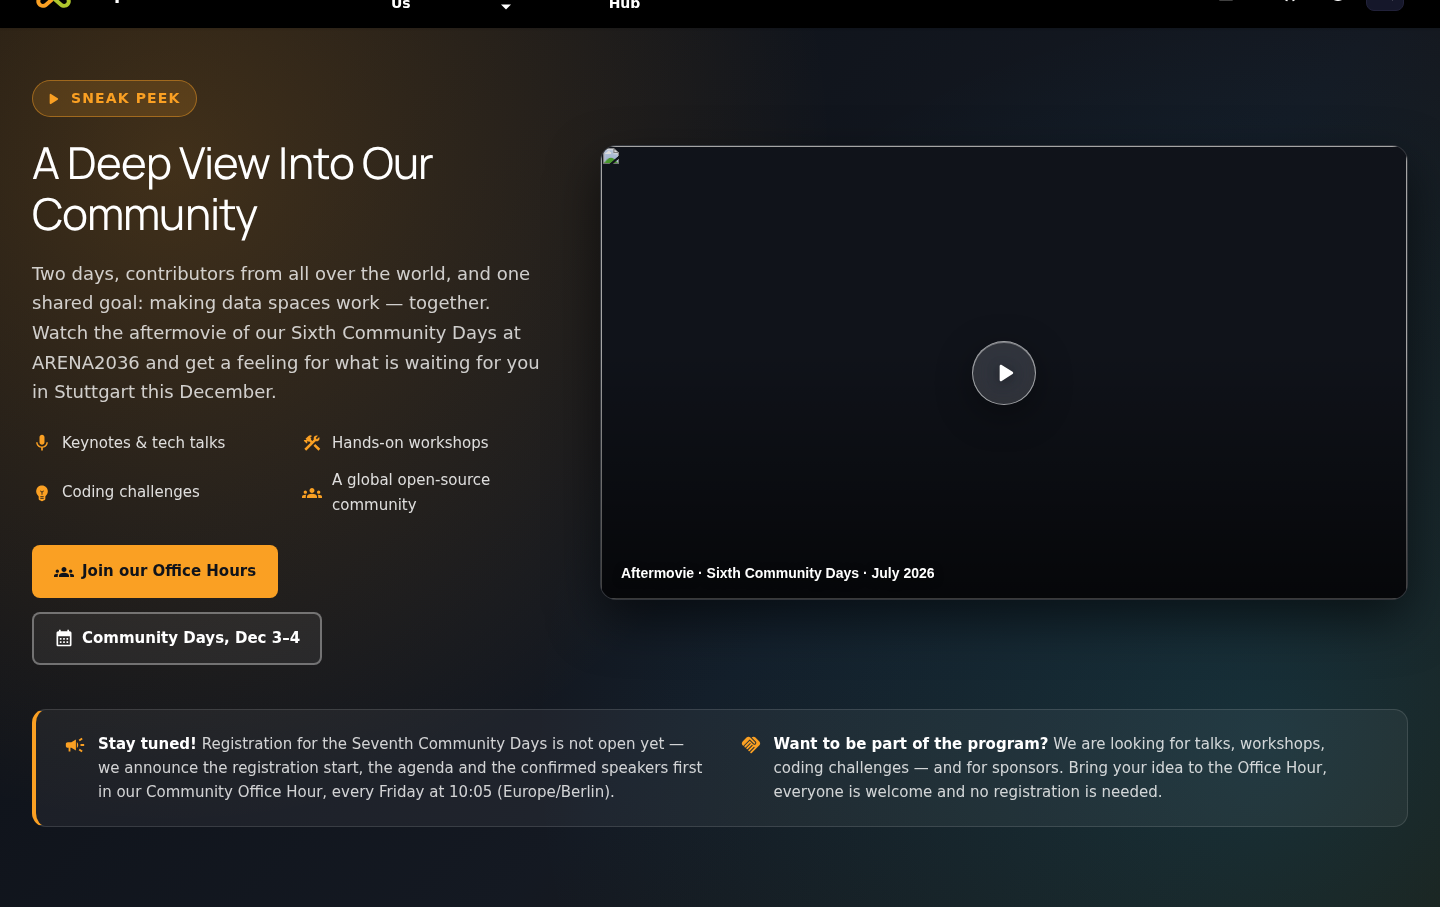
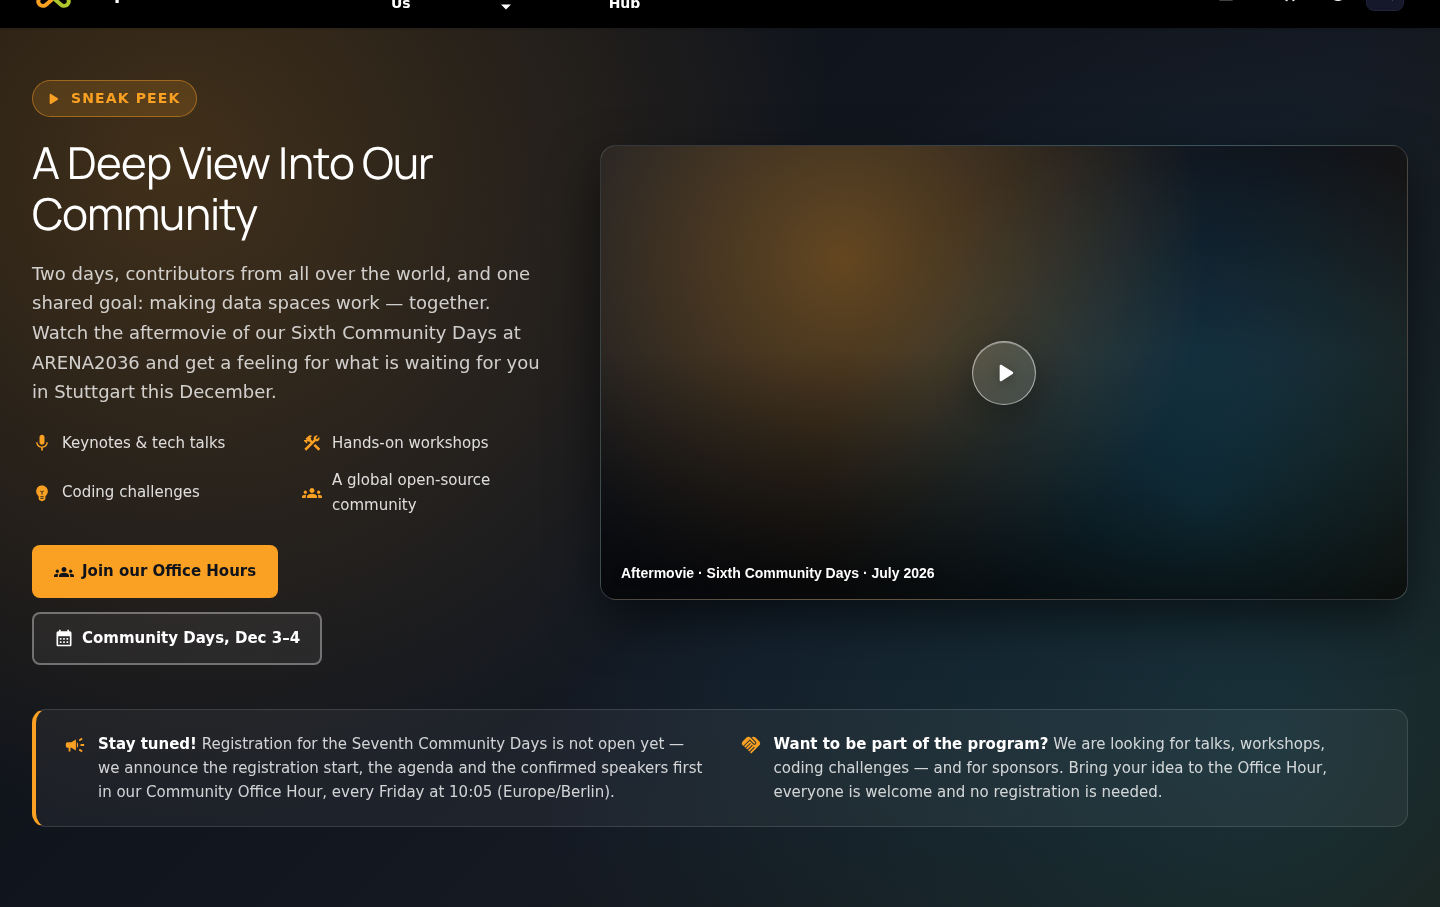
fix: graceful poster fallback for the sneak peek video facade

Changed region(s): [[0.4062, 0.1544, 0.9375, 0.6174]]

diff --git a/src/components/CommunitySneakPeek/index.js b/src/components/CommunitySneakPeek/index.js
@@ -53,6 +53,7 @@ const HIGHLIGHTS = [
 const CommunityVideo = () => {
   const [playing, setPlaying] = useState(false);
   const [posterIndex, setPosterIndex] = useState(0);
+  const [posterFailed, setPosterFailed] = useState(false);
 
   if (playing) {
     return (
@@ -70,17 +71,27 @@ const CommunityVideo = () => {
   return (
     <button
       type="button"
-      className={styles.videoFacade}
+      className={`${styles.videoFacade} ${posterFailed ? styles.videoFacadeFallback : ''}`}
       onClick={() => setPlaying(true)}
       aria-label={`Play the aftermovie: ${VIDEO_TITLE}`}
     >
-      <img
-        src={POSTERS[posterIndex]}
-        alt=""
-        loading="lazy"
-        // Fall back to the next-best still; stops at the last candidate.
-        onError={() => setPosterIndex(index => Math.min(index + 1, POSTERS.length - 1))}
-      />
+      {!posterFailed && (
+        <img
+          src={POSTERS[posterIndex]}
+          alt=""
+          loading="lazy"
+          // Fall back to the next-best still; once every candidate failed (offline,
+          // blocked third-party images, …) the branded backdrop takes over instead
+          // of leaving an empty box behind.
+          onError={() => {
+            if (posterIndex < POSTERS.length - 1) {
+              setPosterIndex(index => index + 1);
+            } else {
+              setPosterFailed(true);
+            }
+          }}
+        />
+      )}
       <span className={styles.playButton}>
         <PlayArrowRounded />
       </span>

diff --git a/src/components/CommunitySneakPeek/styles.module.scss b/src/components/CommunitySneakPeek/styles.module.scss
@@ -311,6 +311,15 @@
   }
 }
 
+// No YouTube still available (offline, blocked third-party images): keep a
+// branded backdrop instead of an empty black box.
+.videoFacadeFallback {
+  background:
+    radial-gradient(circle at 30% 25%, rgba(250, 160, 35, 0.35) 0%, rgba(250, 160, 35, 0) 55%),
+    radial-gradient(circle at 75% 80%, rgba(14, 165, 233, 0.3) 0%, rgba(14, 165, 233, 0) 55%),
+    linear-gradient(135deg, #161b25 0%, #10131a 55%, #241a09 100%);
+}
+
 // Glass play button: translucent over the still instead of a solid disc, with a
 // slow breathing ring. Turns orange only on hover/focus.
 .playButton {
